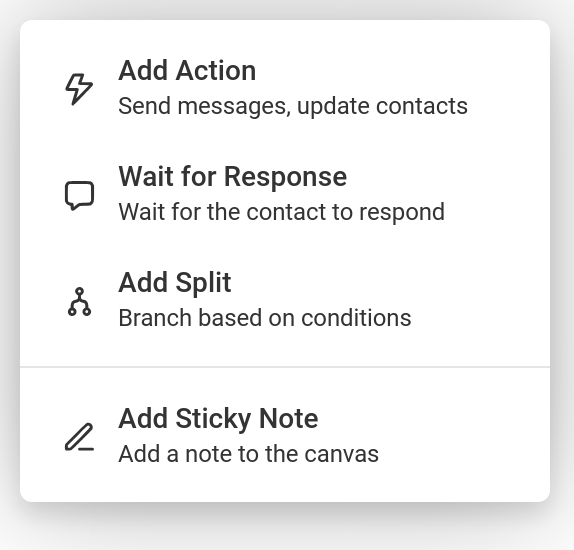
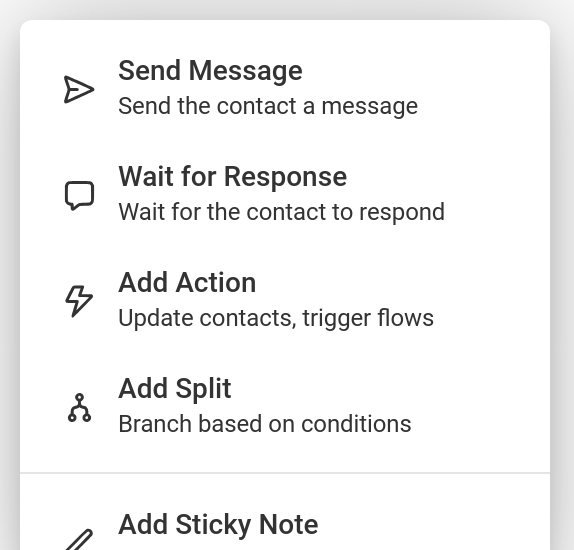
Add Send Message to canvas context menu
Promotes Send Message to a direct option in the canvas context menu,
positioned first before Wait for Response. Selecting it opens the
send_msg editor directly. Removes it from the action type selector
dialog. Updates the Add Action description to reflect remaining actions.

diff --git a/test/temba-canvas-menu.test.ts b/test/temba-canvas-menu.test.ts
@@ -48,21 +48,22 @@ describe('temba-canvas-menu', () => {
     await assertScreenshot('canvas-menu/open', getClip(menu));
   });
 
-  it('has four menu items', async () => {
+  it('has five menu items', async () => {
     const menu = await createCanvasMenu();
     menu.show(100, 100, { x: 50, y: 50 });
     await menu.updateComplete;
 
     const menuItems = menu.shadowRoot?.querySelectorAll('.menu-item');
-    expect(menuItems?.length).to.equal(4);
+    expect(menuItems?.length).to.equal(5);
 
     // check menu item titles
     const titles = Array.from(menuItems || []).map(
       (item) => item.querySelector('.menu-item-title')?.textContent
     );
     expect(titles).to.deep.equal([
-      'Add Action',
+      'Send Message',
       'Wait for Response',
+      'Add Action',
       'Add Split',
       'Add Sticky Note'
     ]);
@@ -94,9 +95,9 @@ describe('temba-canvas-menu', () => {
       selectionDetail = event.detail;
     });
 
-    // click on sticky note option (now the fourth item)
+    // click on sticky note option (now the fifth item)
     const menuItems = menu.shadowRoot?.querySelectorAll('.menu-item');
-    const stickyItem = menuItems?.[3] as HTMLElement;
+    const stickyItem = menuItems?.[4] as HTMLElement;
     stickyItem.click();
     await menu.updateComplete;
 
@@ -114,14 +115,15 @@ describe('temba-canvas-menu', () => {
     await menu.updateComplete;
 
     const menuItems = menu.shadowRoot?.querySelectorAll('.menu-item');
-    expect(menuItems?.length).to.equal(5);
+    expect(menuItems?.length).to.equal(6);
 
     const titles = Array.from(menuItems || []).map(
       (item) => item.querySelector('.menu-item-title')?.textContent
     );
     expect(titles).to.deep.equal([
-      'Add Action',
+      'Send Message',
       'Wait for Response',
+      'Add Action',
       'Add Split',
       'Add Sticky Note',
       'Reflow'
@@ -139,7 +141,7 @@ describe('temba-canvas-menu', () => {
     });
 
     const menuItems = menu.shadowRoot?.querySelectorAll('.menu-item');
-    const reflowItem = menuItems?.[4] as HTMLElement;
+    const reflowItem = menuItems?.[5] as HTMLElement;
     reflowItem.click();
     await menu.updateComplete;
 
@@ -156,7 +158,7 @@ describe('temba-canvas-menu', () => {
     await menu.updateComplete;
 
     const menuItems = menu.shadowRoot?.querySelectorAll('.menu-item');
-    expect(menuItems?.length).to.equal(4);
+    expect(menuItems?.length).to.equal(5);
 
     const titles = Array.from(menuItems || []).map(
       (item) => item.querySelector('.menu-item-title')?.textContent
@@ -202,8 +204,8 @@ describe('temba-canvas-menu', () => {
     });
 
     const menuItems = menu.shadowRoot?.querySelectorAll('.menu-item');
-    const actionItem = menuItems?.[0] as HTMLElement;
-    actionItem.click();
+    const sendMsgItem = menuItems?.[0] as HTMLElement;
+    sendMsgItem.click();
     await menu.updateComplete;
 
     expect(selectionFired).to.be.true;

diff --git a/src/flow/CanvasMenu.ts b/src/flow/CanvasMenu.ts
@@ -7,7 +7,13 @@ import { CustomEventType } from '../interfaces';
  * Event detail for canvas menu selection
  */
 export interface CanvasMenuSelection {
-  action: 'sticky' | 'action' | 'split' | 'wait_for_response' | 'reflow';
+  action:
+    | 'sticky'
+    | 'action'
+    | 'split'
+    | 'send_msg'
+    | 'wait_for_response'
+    | 'reflow';
   position: { x: number; y: number };
 }
 
@@ -190,9 +196,7 @@ export class CanvasMenu extends RapidElement {
     }
   }
 
-  private handleMenuItemClick(
-    action: 'sticky' | 'action' | 'split' | 'wait_for_response' | 'reflow'
-  ) {
+  private handleMenuItemClick(action: CanvasMenuSelection['action']) {
     this.fireCustomEvent(CustomEventType.Selection, {
       action,
       position: this.clickPosition
@@ -210,14 +214,12 @@ export class CanvasMenu extends RapidElement {
       <div class="menu" style="left: ${this.x}px; top: ${this.y}px;">
         <div
           class="menu-item"
-          @click=${() => this.handleMenuItemClick('action')}
+          @click=${() => this.handleMenuItemClick('send_msg')}
         >
-          <temba-icon name="action" size="1.25"></temba-icon>
+          <temba-icon name="send" size="1.25"></temba-icon>
           <div class="menu-item-content">
-            <div class="menu-item-title">Add Action</div>
-            <div class="menu-item-description">
-              Send messages, update contacts
-            </div>
+            <div class="menu-item-title">Send Message</div>
+            <div class="menu-item-description">Send the contact a message</div>
           </div>
         </div>
 
@@ -237,6 +239,19 @@ export class CanvasMenu extends RapidElement {
               </div>
             `
           : ''}
+
+        <div
+          class="menu-item"
+          @click=${() => this.handleMenuItemClick('action')}
+        >
+          <temba-icon name="action" size="1.25"></temba-icon>
+          <div class="menu-item-content">
+            <div class="menu-item-title">Add Action</div>
+            <div class="menu-item-description">
+              Update contacts, trigger flows
+            </div>
+          </div>
+        </div>
 
         <div
           class="menu-item"

diff --git a/src/flow/Editor.ts b/src/flow/Editor.ts
@@ -2862,12 +2862,15 @@ export class Editor extends RapidElement {
       this.connectionSourceX = null;
       this.connectionSourceY = null;
       this.dragFromNodeId = null;
-    } else if (selection.action === 'wait_for_response') {
-      // Go directly to the wait_for_response node editor (skip node type selector)
+    } else if (
+      selection.action === 'send_msg' ||
+      selection.action === 'wait_for_response'
+    ) {
+      // Go directly to the node editor (skip node type selector)
       this.handleNodeTypeSelection(
         new CustomEvent(CustomEventType.Selection, {
           detail: {
-            nodeType: 'wait_for_response',
+            nodeType: selection.action,
             position: selection.position
           } as NodeTypeSelection
         })

diff --git a/src/flow/actions/send_msg.ts b/src/flow/actions/send_msg.ts
@@ -14,6 +14,7 @@ export const send_msg: ActionConfig = {
   name: 'Send Message',
   group: ACTION_GROUPS.send,
   flowTypes: [FlowTypes.VOICE, FlowTypes.MESSAGE, FlowTypes.BACKGROUND],
+  hideFromActions: true,
   render: (_node: Node, action: SendMsg) => {
     const text = action.text.replace(/\n/g, '<br>');
     return html`
